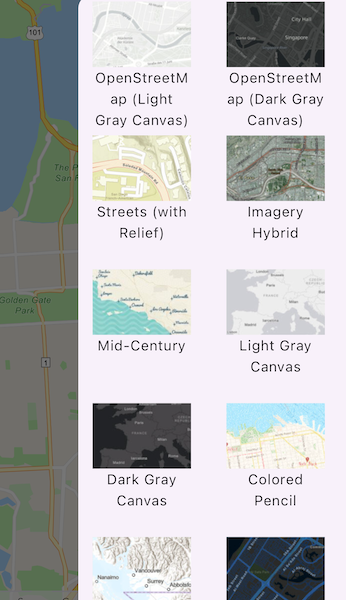
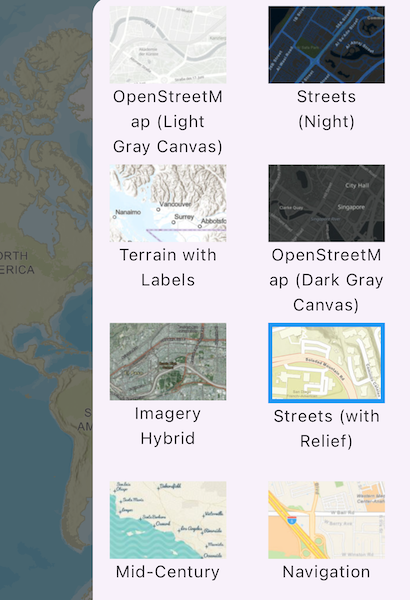
Added selected map border

diff --git a/lib/samples/set_basemap/set_basemap_sample.dart b/lib/samples/set_basemap/set_basemap_sample.dart
@@ -38,8 +38,11 @@ class _SetBasemapSampleState extends State<SetBasemapSample>
   // Create a dictionary to store basemaps.
   final _basemaps = <Basemap, Image>{};
   // Create a default image.
-  final _defaultImage = Image.asset('assets/basemap_default.png'); 
+  final _defaultImage = Image.asset('assets/basemap_default.png');
+  // Create a future to load basemaps.
   late Future _loadBasemapsFuture;
+  // Create a variable to store the selected basemap.
+  Basemap? _selectedBasemap;
 
   @override
   void initState() {
@@ -55,7 +58,7 @@ class _SetBasemapSampleState extends State<SetBasemapSample>
       key: _scaffoldStateKey,
       // Create an end drawer to display basemaps.
       endDrawer: Drawer(
-        child: SafeArea( 
+        child: SafeArea(
           // Create a future builder to load basemaps.
           child: FutureBuilder(
             future: _loadBasemapsFuture,
@@ -71,7 +74,19 @@ class _SetBasemapSampleState extends State<SetBasemapSample>
                           (basemap) => ListTile(
                             title: Column(
                               children: [
-                                _basemaps[basemap] ?? _defaultImage,
+                                Container(
+                                  // Add a border to the selected basemap.
+                                  decoration: _selectedBasemap == basemap
+                                      ? BoxDecoration(
+                                          border: Border.all(
+                                            color: Colors.blue,
+                                            width: 4,
+                                          ),
+                                        )
+                                      : null,
+                                  // Display the basemap image.
+                                  child: _basemaps[basemap] ?? _defaultImage,
+                                ),
                                 Text(
                                   basemap.name,
                                   textAlign: TextAlign.center,
@@ -80,6 +95,7 @@ class _SetBasemapSampleState extends State<SetBasemapSample>
                             ),
                             // Update the map with the selected basemap.
                             onTap: () {
+                              _selectedBasemap = basemap;
                               updateMap(basemap);
                               _scaffoldStateKey.currentState!.closeEndDrawer();
                             },
@@ -122,12 +138,12 @@ class _SetBasemapSampleState extends State<SetBasemapSample>
 
   void onMapViewReady() {
     // Set the map view controller's map to the ArcGIS map.
-    _mapViewController.arcGISMap = _arcGISMap; 
+    _mapViewController.arcGISMap = _arcGISMap;
   }
 
   void updateMap(Basemap basemap) {
     // Update the map view with the selected basemap.
-    _arcGISMap.basemap = basemap; 
+    _arcGISMap.basemap = basemap;
   }
 
   Future loadBasemaps() async {
